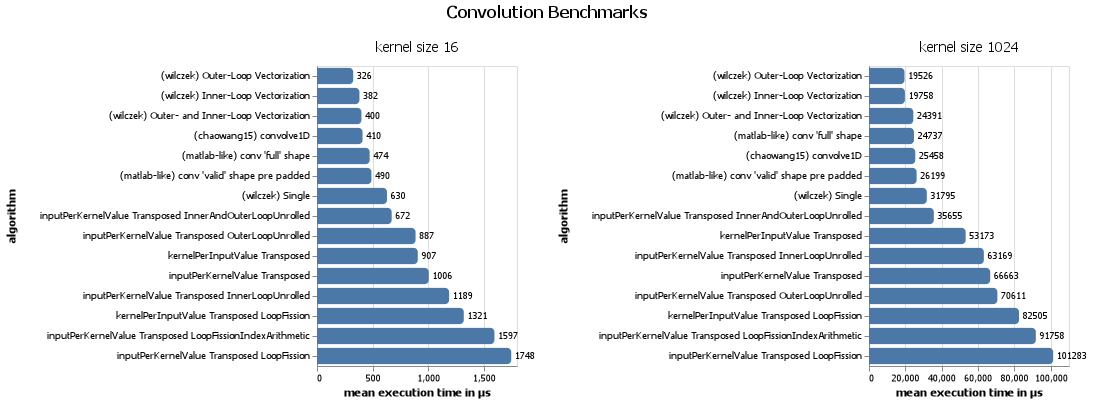
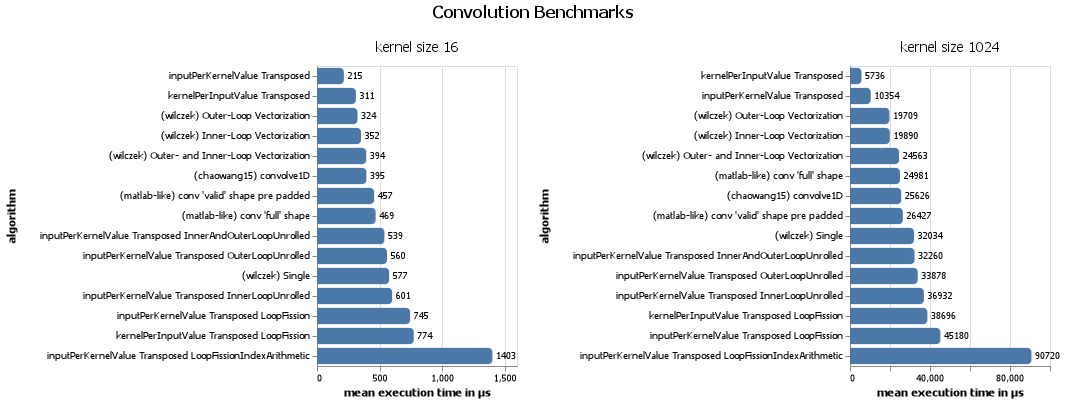
remove tcb::span in favor of std::span.
tcb::span seems to hinder MSVC vectorization optimization.

Use pointers and length variables if compatibility is key.

diff --git a/source/JohTConvolution.h b/source/JohTConvolution.h
@@ -1,5 +1,5 @@
 #pragma once
-#include "tcb/span.hpp"
+#include <span>
 #include <vector>
 
 /**
@@ -30,7 +30,7 @@ namespace joht_convolution
      * @author JohT
      */
     template<typename ValueType>
-    void kernelPerInputValueTransposed(const tcb::span<const ValueType> &input, const tcb::span<const ValueType> &kernel, const tcb::span<ValueType> &output)
+    void kernelPerInputValueTransposed(const std::span<const ValueType> &input, const std::span<const ValueType> &kernel, const std::span<ValueType> &output)
     {
         // Make it obvious for the compiler (e.g. MSVC) that the size of the arrays are constant.
         const auto inputLength = static_cast<int>(input.size());
@@ -73,7 +73,7 @@ namespace joht_convolution
      * @author JohT
      */
     template<typename ValueType>
-    void inputPerKernelValueTransposed(const tcb::span<const ValueType> &input, const tcb::span<const ValueType> &kernel, const tcb::span<ValueType> &output)
+    void inputPerKernelValueTransposed(const std::span<const ValueType> &input, const std::span<const ValueType> &kernel, const std::span<ValueType> &output)
     {
         // Make it obvious for the compiler (e.g. MSVC) that the size of the arrays are constant.
         const auto inputLength = static_cast<int>(input.size());
@@ -115,7 +115,7 @@ namespace joht_convolution
      * @author JohT
      */
     template<typename ValueType>
-    void inputPerKernelValueTransposedInnerLoopUnrolled(const tcb::span<const ValueType> &input, const tcb::span<const ValueType> &kernel, const tcb::span<ValueType> &output)
+    void inputPerKernelValueTransposedInnerLoopUnrolled(const std::span<const ValueType> &input, const std::span<const ValueType> &kernel, const std::span<ValueType> &output)
     {
         // Make it obvious for the compiler (e.g. MSVC) that the size of the arrays are constant.
         const auto inputLength = static_cast<int>(input.size());
@@ -159,7 +159,7 @@ namespace joht_convolution
      * @author JohT
      */
     template<typename ValueType>
-    void inputPerKernelValueTransposedOuterLoopUnrolled(const tcb::span<const ValueType> &input, const tcb::span<const ValueType> &kernel, const tcb::span<ValueType> &output)
+    void inputPerKernelValueTransposedOuterLoopUnrolled(const std::span<const ValueType> &input, const std::span<const ValueType> &kernel, const std::span<ValueType> &output)
     {
         // Make it obvious for the compiler (e.g. MSVC) that the size of the arrays are constant.
         const auto inputLength = static_cast<int>(input.size());
@@ -203,7 +203,7 @@ namespace joht_convolution
      * @author JohT
      */
     template<typename ValueType>
-    void inputPerKernelValueTransposedInnerAndOuterLoopUnrolled(const tcb::span<const ValueType> &input, const tcb::span<const ValueType> &kernel, const tcb::span<ValueType> &output)
+    void inputPerKernelValueTransposedInnerAndOuterLoopUnrolled(const std::span<const ValueType> &input, const std::span<const ValueType> &kernel, const std::span<ValueType> &output)
     {
         // Make it obvious for the compiler (e.g. MSVC) that the size of the arrays are constant.
         const auto inputLength = static_cast<int>(input.size());
@@ -263,7 +263,7 @@ namespace joht_convolution
      * @author JohT
      */
     template<typename ValueType>
-    void inputPerKernelValueTransposedLoopFission(const tcb::span<const ValueType> &input, const tcb::span<const ValueType> &kernel, const tcb::span<ValueType> &output)
+    void inputPerKernelValueTransposedLoopFission(const std::span<const ValueType> &input, const std::span<const ValueType> &kernel, const std::span<ValueType> &output)
     {
         // Make it obvious for the compiler (e.g. MSVC) that the size of the arrays are constant.
         const auto inputLength = static_cast<int>(input.size());
@@ -308,7 +308,7 @@ namespace joht_convolution
      * @author JohT
      */
     template<typename ValueType>
-    void inputPerKernelValueTransposedLoopFissionIndexArithmetic(const tcb::span<const ValueType> &input, const tcb::span<const ValueType> &kernel, const tcb::span<ValueType> &output)
+    void inputPerKernelValueTransposedLoopFissionIndexArithmetic(const std::span<const ValueType> &input, const std::span<const ValueType> &kernel, const std::span<ValueType> &output)
     {
         // Make it obvious for the compiler (e.g. MSVC) that the size of the arrays are constant.
         const auto inputLength = static_cast<int>(input.size());
@@ -353,7 +353,7 @@ namespace joht_convolution
      * @author JohT
      */
     template<typename ValueType>
-    void kernelPerInputValueTransposedLoopFission(const tcb::span<const ValueType> &input, const tcb::span<const ValueType> &kernel, const tcb::span<ValueType> &output)
+    void kernelPerInputValueTransposedLoopFission(const std::span<const ValueType> &input, const std::span<const ValueType> &kernel, const std::span<ValueType> &output)
     {
         // Make it obvious for the compiler (e.g. MSVC) that the size of the arrays are constant.
         const auto inputLength = static_cast<int>(input.size());

diff --git a/test/ConvolutionAlgorithmUnitTest.cpp b/test/ConvolutionAlgorithmUnitTest.cpp
@@ -22,42 +22,42 @@ SCENARIO("Convolution Algorithms")
 
             THEN("Algorithm 'kernelPerInputValueTransposed' outputs the same result as `convolution_full`")
             {
-                joht_convolution::kernelPerInputValueTransposed(tcb::span(input), tcb::span(kernel), tcb::span(output));
+                joht_convolution::kernelPerInputValueTransposed(std::span(input), std::span(kernel), std::span(output));
                 REQUIRE_THAT(output, Catch::Matchers::Approx(reference));
             }
             THEN("Algorithm 'inputPerKernelValueTransposed' outputs the same result as `convolution_full`")
             {
-                joht_convolution::inputPerKernelValueTransposed(tcb::span(input), tcb::span(kernel), tcb::span(output));
+                joht_convolution::inputPerKernelValueTransposed(std::span(input), std::span(kernel), std::span(output));
                 REQUIRE_THAT(output, Catch::Matchers::Approx(reference));
             }
             THEN("Algorithm 'inputPerKernelValueTransposedInnerLoopUnrolled' outputs the same result as `convolution_full`")
             {
-                joht_convolution::inputPerKernelValueTransposedInnerLoopUnrolled(tcb::span(input), tcb::span(kernel), tcb::span(output));
+                joht_convolution::inputPerKernelValueTransposedInnerLoopUnrolled(std::span(input), std::span(kernel), std::span(output));
                 REQUIRE_THAT(output, Catch::Matchers::Approx(reference));
             }
             THEN("Algorithm 'inputPerKernelValueTransposedOuterLoopUnrolled' outputs the same result as `convolution_full`")
             {
-                joht_convolution::inputPerKernelValueTransposedOuterLoopUnrolled(tcb::span(input), tcb::span(kernel), tcb::span(output));
+                joht_convolution::inputPerKernelValueTransposedOuterLoopUnrolled(std::span(input), std::span(kernel), std::span(output));
                 REQUIRE_THAT(output, Catch::Matchers::Approx(reference));
             }
             THEN("Algorithm 'inputPerKernelValueTransposedInnerAndOuterLoopUnrolled' outputs the same result as `convolution_full`")
             {
-                joht_convolution::inputPerKernelValueTransposedInnerAndOuterLoopUnrolled(tcb::span(input), tcb::span(kernel), tcb::span(output));
+                joht_convolution::inputPerKernelValueTransposedInnerAndOuterLoopUnrolled(std::span(input), std::span(kernel), std::span(output));
                 REQUIRE_THAT(output, Catch::Matchers::Approx(reference));
             }
             THEN("Algorithm 'inputPerKernelValueTransposedLoopFission' outputs the same result as `convolution_full`")
             {
-                joht_convolution::inputPerKernelValueTransposedLoopFission(tcb::span(input), tcb::span(kernel), tcb::span(output));
+                joht_convolution::inputPerKernelValueTransposedLoopFission(std::span(input), std::span(kernel), std::span(output));
                 REQUIRE_THAT(output, Catch::Matchers::Approx(reference));
             }
             THEN("Algorithm 'kernelPerInputValueTransposedLoopFission' outputs the same result as `convolution_full`")
             {
-                joht_convolution::kernelPerInputValueTransposedLoopFission(tcb::span(input), tcb::span(kernel), tcb::span(output));
+                joht_convolution::kernelPerInputValueTransposedLoopFission(std::span(input), std::span(kernel), std::span(output));
                 REQUIRE_THAT(output, Catch::Matchers::Approx(reference));
             }
             THEN("Algorithm 'inputPerKernelValueTransposedLoopFissionIndexArithmetic' outputs the same result as `convolution_full`")
             {
-                joht_convolution::inputPerKernelValueTransposedLoopFissionIndexArithmetic(tcb::span(input), tcb::span(kernel), tcb::span(output));
+                joht_convolution::inputPerKernelValueTransposedLoopFissionIndexArithmetic(std::span(input), std::span(kernel), std::span(output));
                 REQUIRE_THAT(output, Catch::Matchers::Approx(reference));
             }
             //Reference: https://stackoverflow.com/questions/24518989/how-to-perform-1-dimensional-valid-convolution

diff --git a/test/ConvolutionAlgorithmBenchmarkTest.cpp b/test/ConvolutionAlgorithmBenchmarkTest.cpp
@@ -22,9 +22,9 @@ TEST_CASE("Convolution Algorithms Benchmarks", "[performance]")
 	const auto outputSize = input.size() + kernel.size() - 1;
 	std::vector<float> output(outputSize);
 
-    const tcb::span<const float> & inputSpan = tcb::span(input);
-    const tcb::span<const float> & kernelSpan = tcb::span(kernel);
-    const tcb::span<float> & outputSpan = tcb::span(output);
+    const std::span<const float> & inputSpan = std::span(input);
+    const std::span<const float> & kernelSpan = std::span(kernel);
+    const std::span<float> & outputSpan = std::span(output);
 
     BENCHMARK_ADVANCED("kernelPerInputValue Transposed (kernel " + std::to_string(kernelLength) + ")")
 
